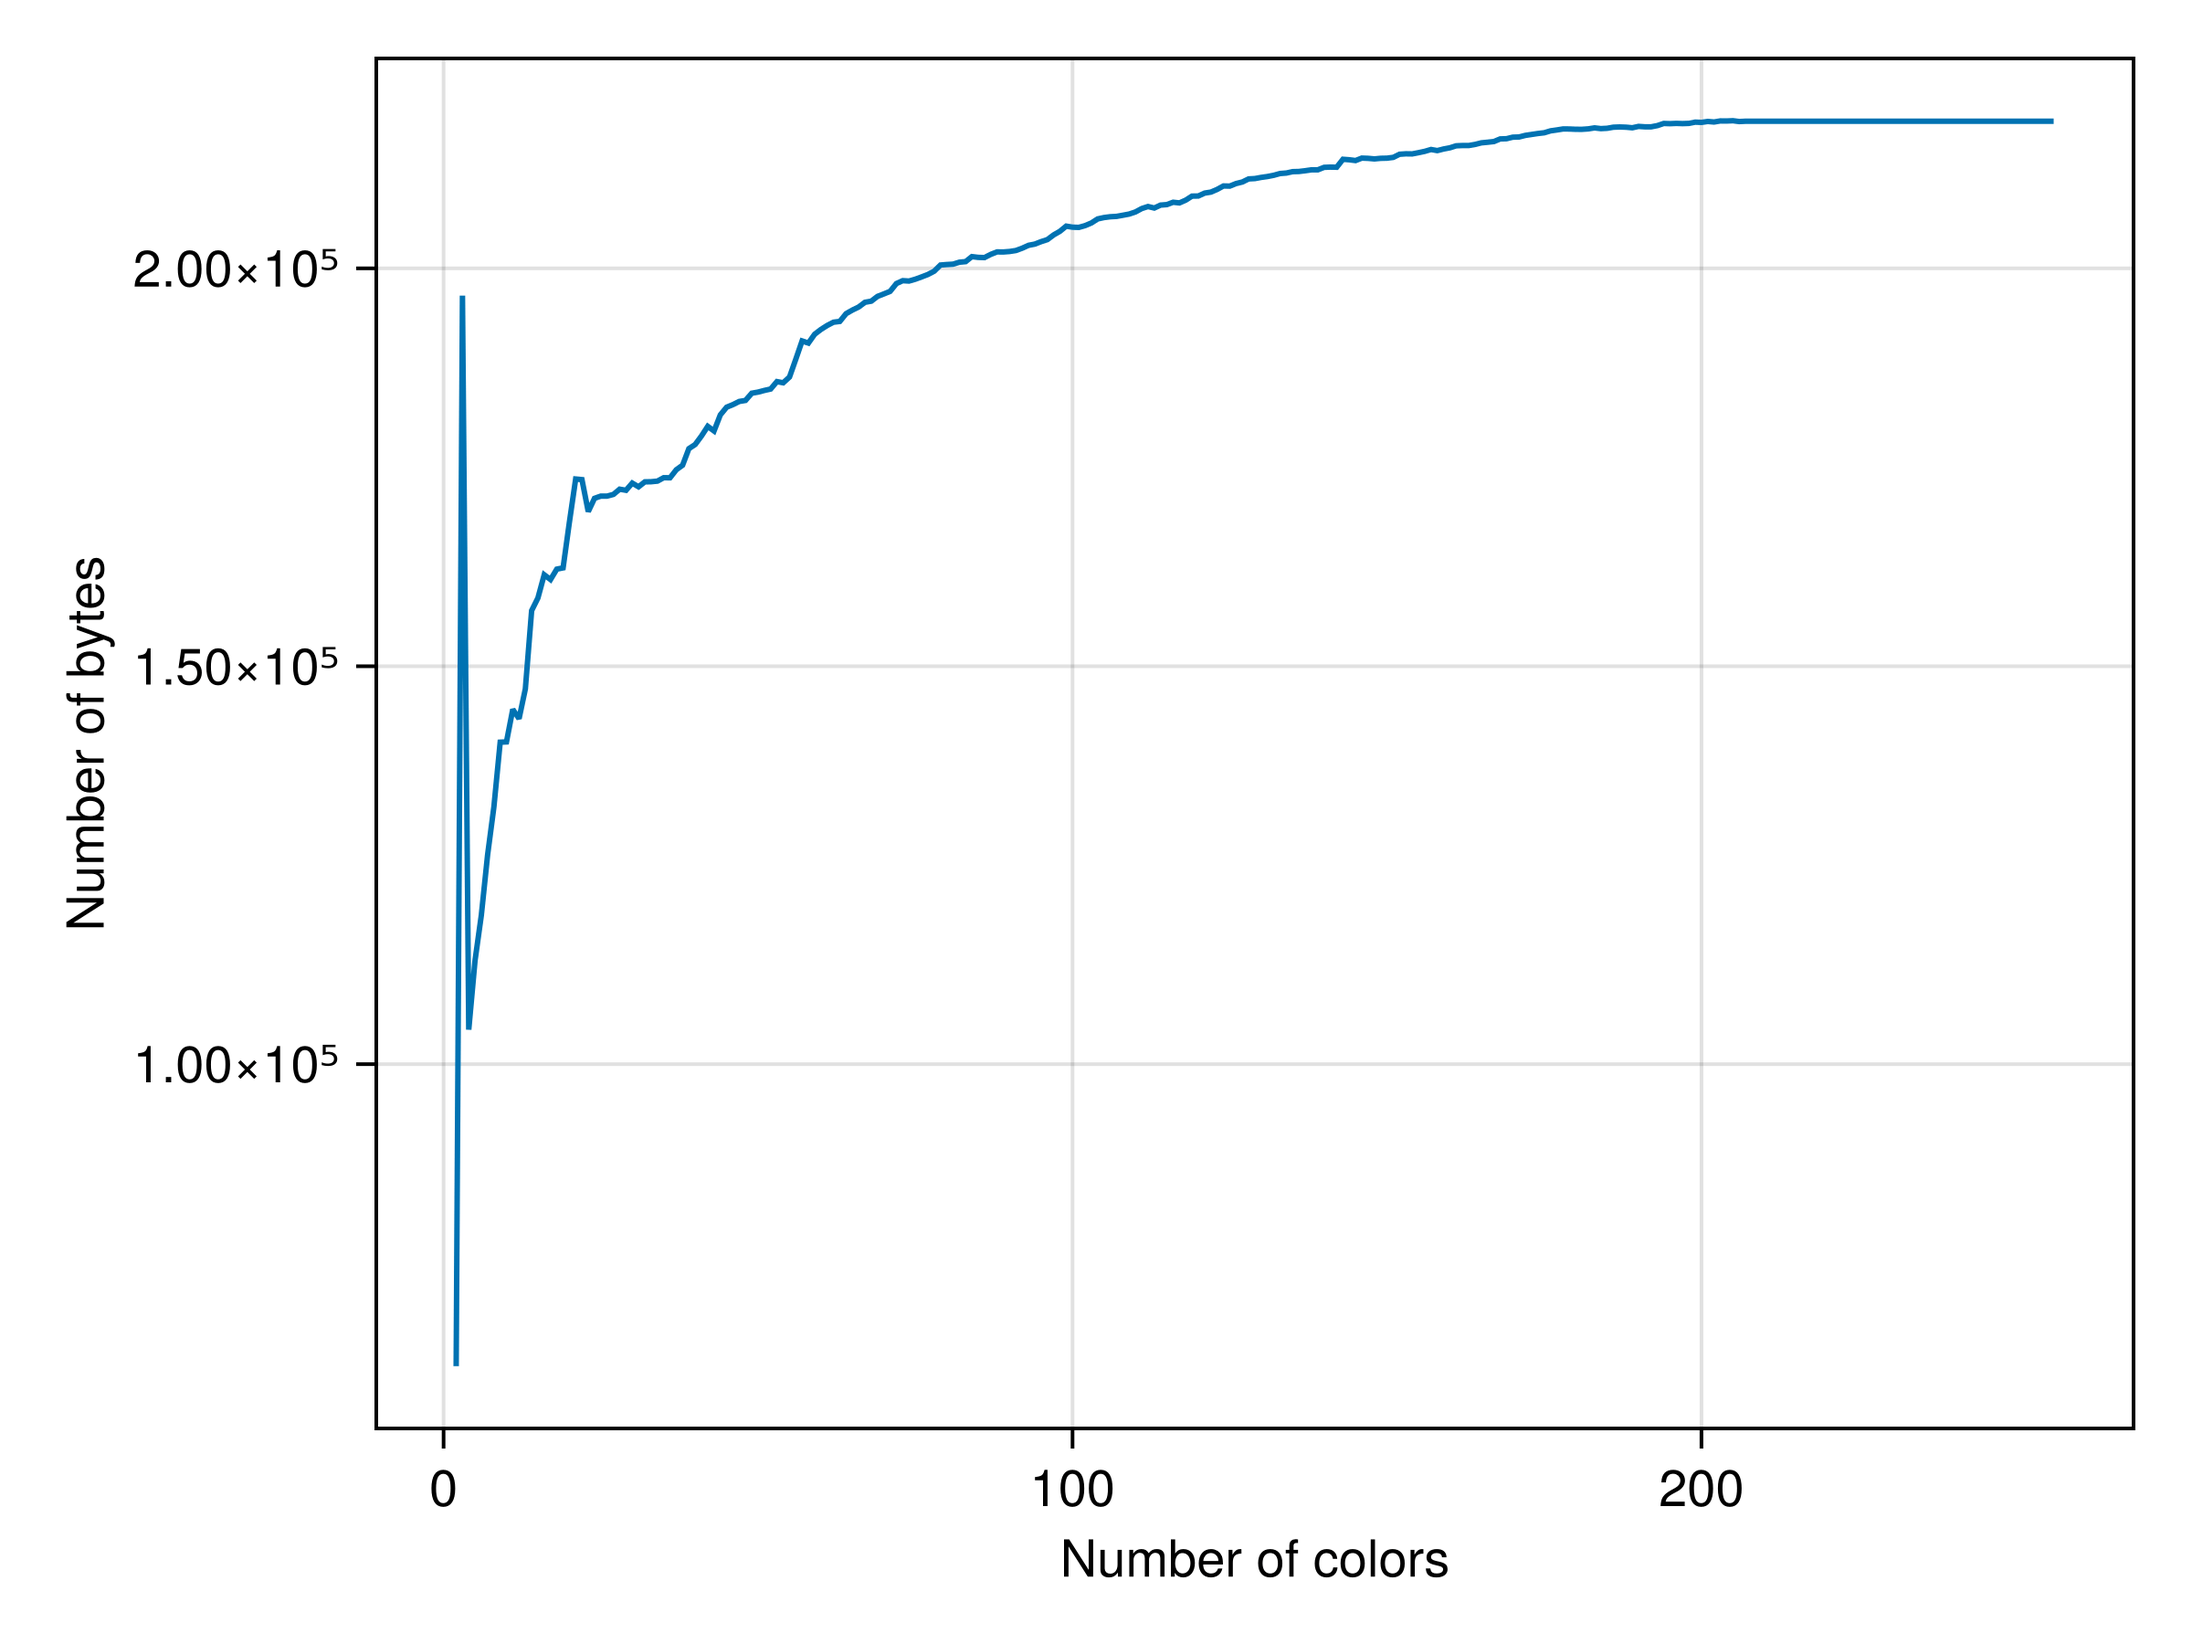
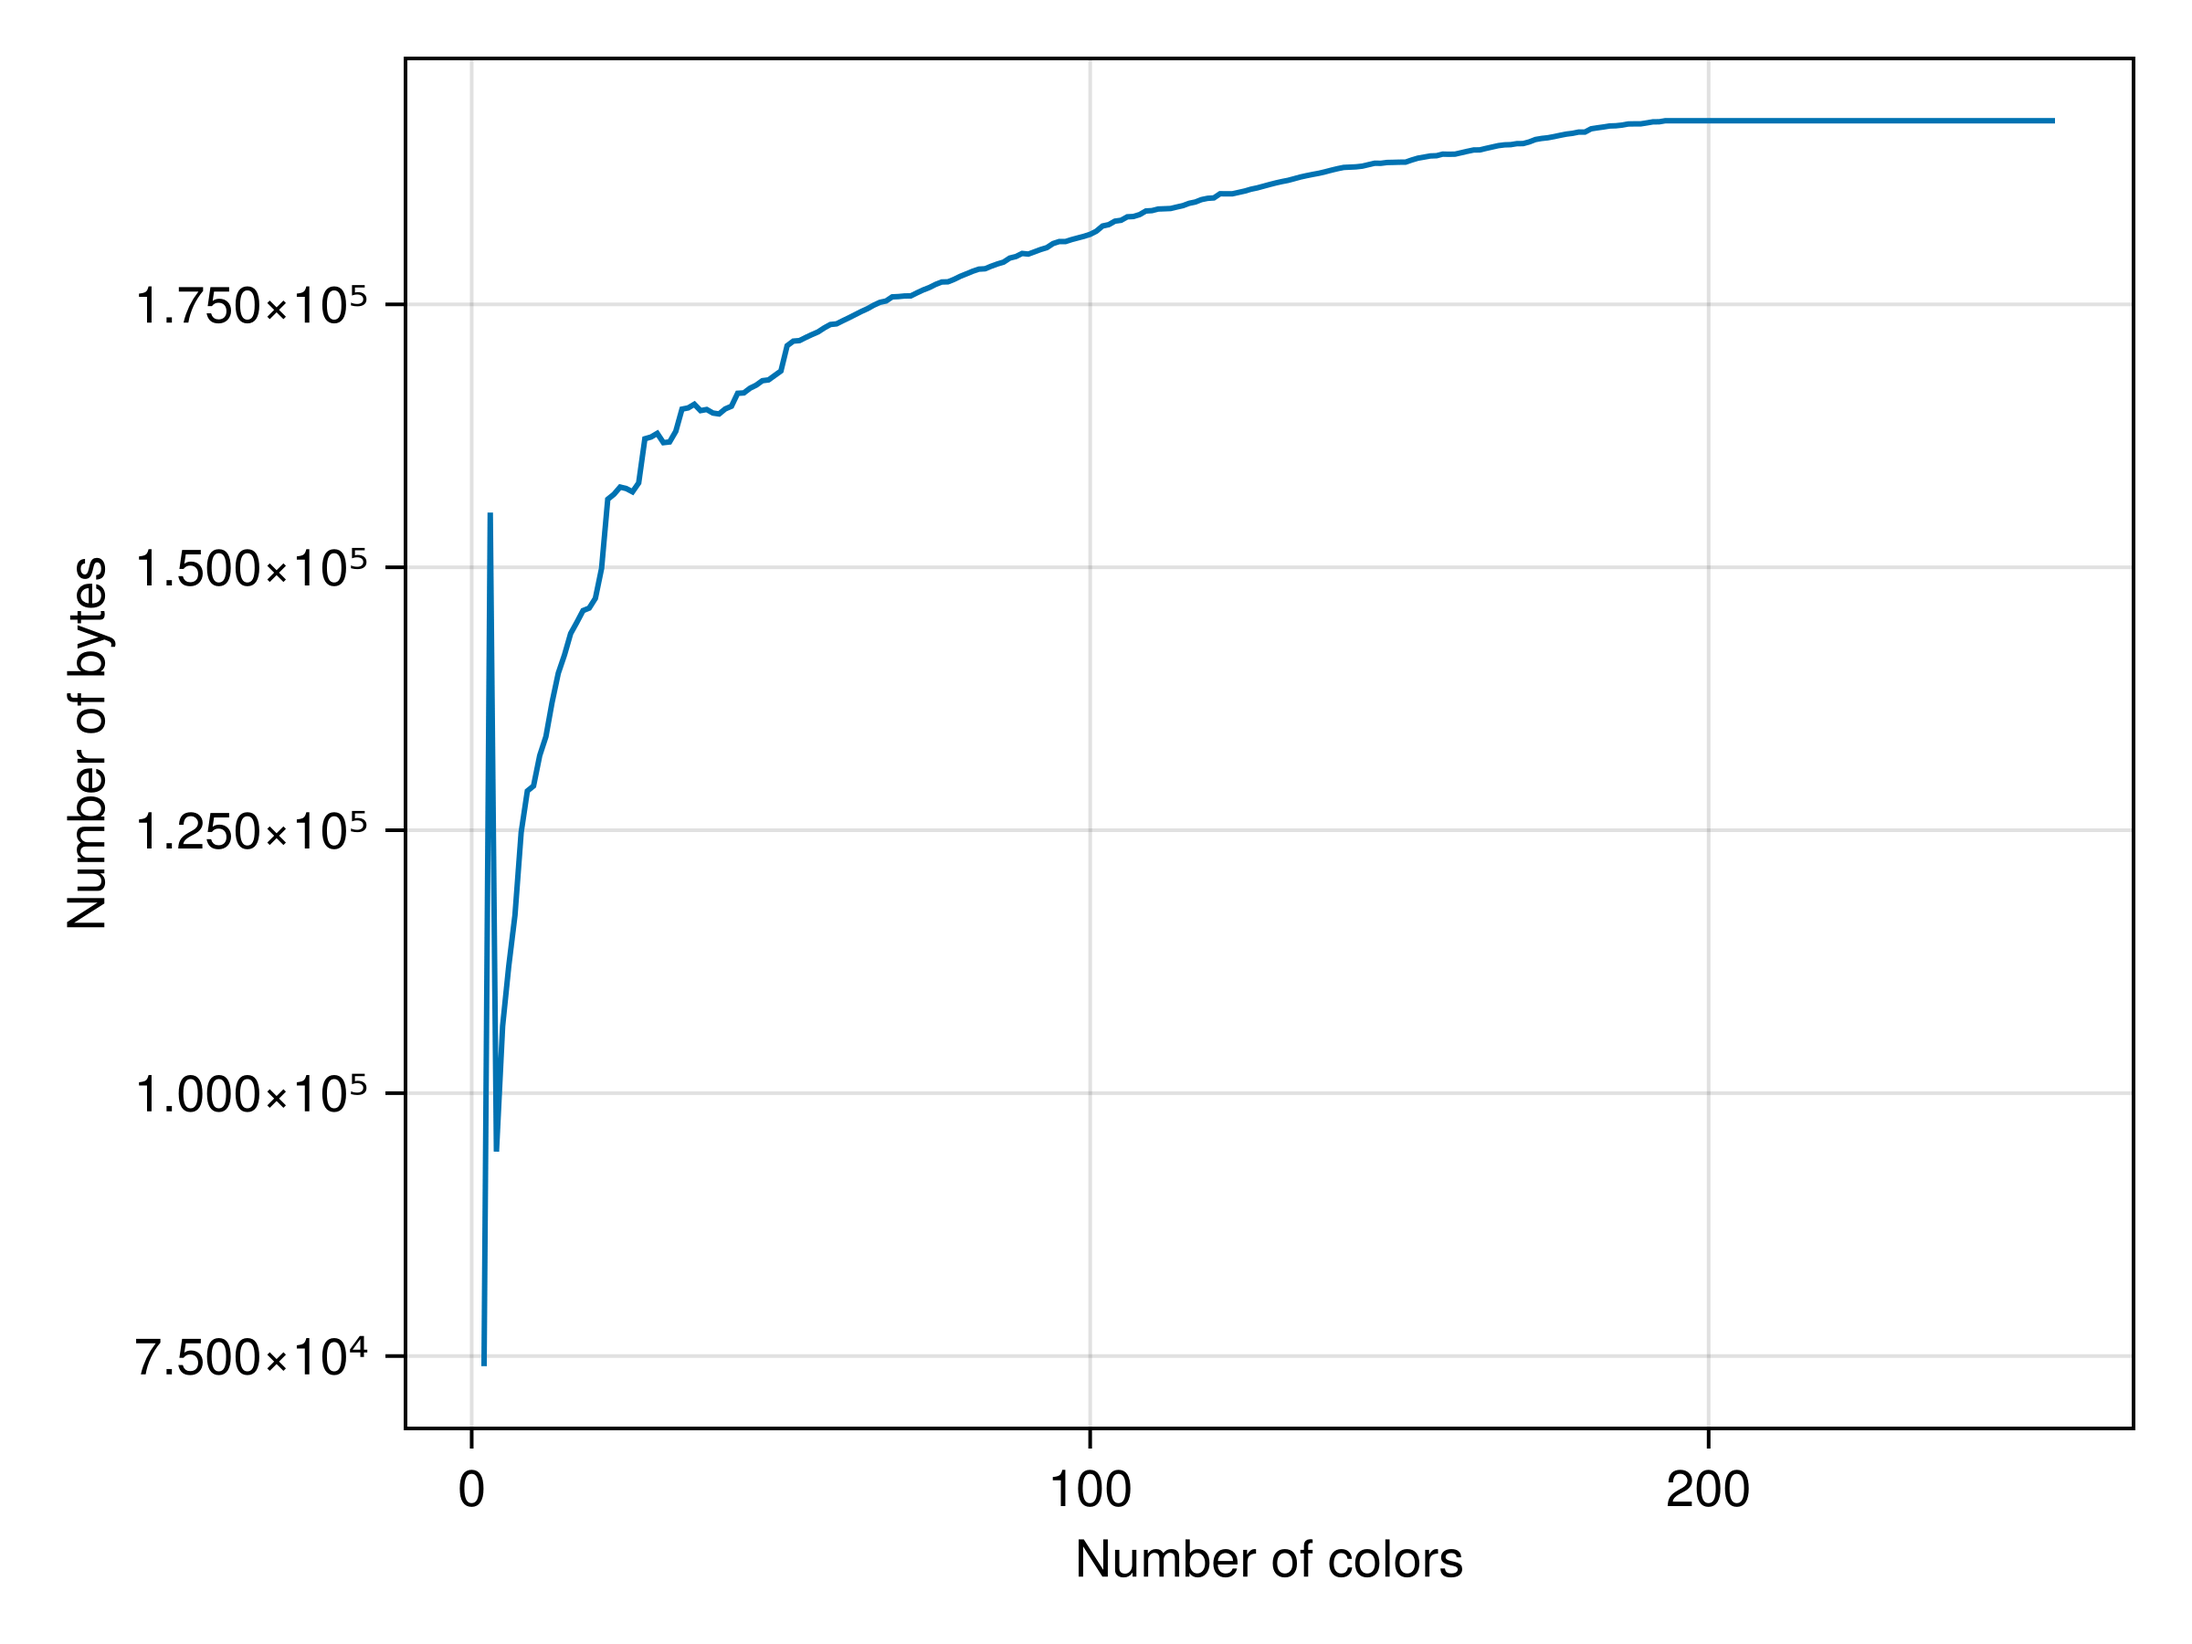
up

diff --git a/README.md b/README.md
@@ -31,23 +31,25 @@ using CairoMakie, LibImageQuant, Random
 # extra sharp images, uses more space though!
 CairoMakie.activate!(px_per_unit=4, pt_per_unit=4)
 Random.seed!(1)
-fig = scatter(rand(1000), rand(1000))
-save("assets/test-original.png", fig)
-save("assets/test-256.png", quantize_image(fig))
-save("assets/test-16.png", quantize_image(fig; colors=16))
-save("assets/test-4.png", quantize_image(fig; colors=4))
-save("assets/test-2.png", quantize_image(fig; colors=2))
+fig = scatter(rand(1000), rand(1000));
+save("assets/test-original.png", fig; filters=0)
+for n in [256, 16, 4, 2]
+  PNGFiles.save("assets/test-$n.png", quantize_image(fig; colors=n); filters=0)
+end
+
 ```
+
+
 
 You can see the results here:
 
 | Setting                    | File size | Result                                |
 | -------------------------- | --------- | ------------------------------------- |
 | Original (no quantization) | 520 KB    | <img src="assets/test-original.png" width="400"> |
-| 256 colors (default)       | 213 KB    | <img src="assets/test-256.png" width="400">    |
-| 16 colors                  | 158 KB    | <img src="assets/test-16.png" width="400">      |
-| 4 colors                   | 102 KB    | <img src="assets/test-4.png" width="400">        |
-| 2 colors                   | 61 KB     | <img src="assets/test-2.png" width="400">        |
+| 256 colors (default)       | 188 KB    | <img src="assets/test-256.png" width="400">    |
+| 16 colors                  | 140 KB    | <img src="assets/test-16.png" width="400">      |
+| 4 colors                   | 92 KB    | <img src="assets/test-4.png" width="400">        |
+| 2 colors                   | 72 KB     | <img src="assets/test-2.png" width="400">        |
 
 Or in plot form, with all 2 to 256 colors:
 
@@ -56,6 +58,14 @@ Or in plot form, with all 2 to 256 colors:
 as produced by [./colors_vs-size.jl](./colors_vs_size.jl). I'm not sure why there's a big spike at 3 colors!
 
 Likely 2/4/16/256 are good choices, since they correspond to the supported bit depths in PNGs.
+
+
+Note: here we use the `filters=0` keyword argument to `save` which results in better compression for paletted plots. This mimics what `pngquant` does when it saves out PNGs. However, despite some experimentation, I haven't been able to match pngquant's results with additional keyword arguments; e.g. pngquant gets 177 KB for the 256 color version instead of 188 KB. You can compare with:
+
+```julia
+colors = 256
+run(`pngquant --colors $colors assets/test-original.png --output assets/test-pngquant-$colors.png --force`)
+```
 
 Here's an example where color quantization does not work as well:
 
